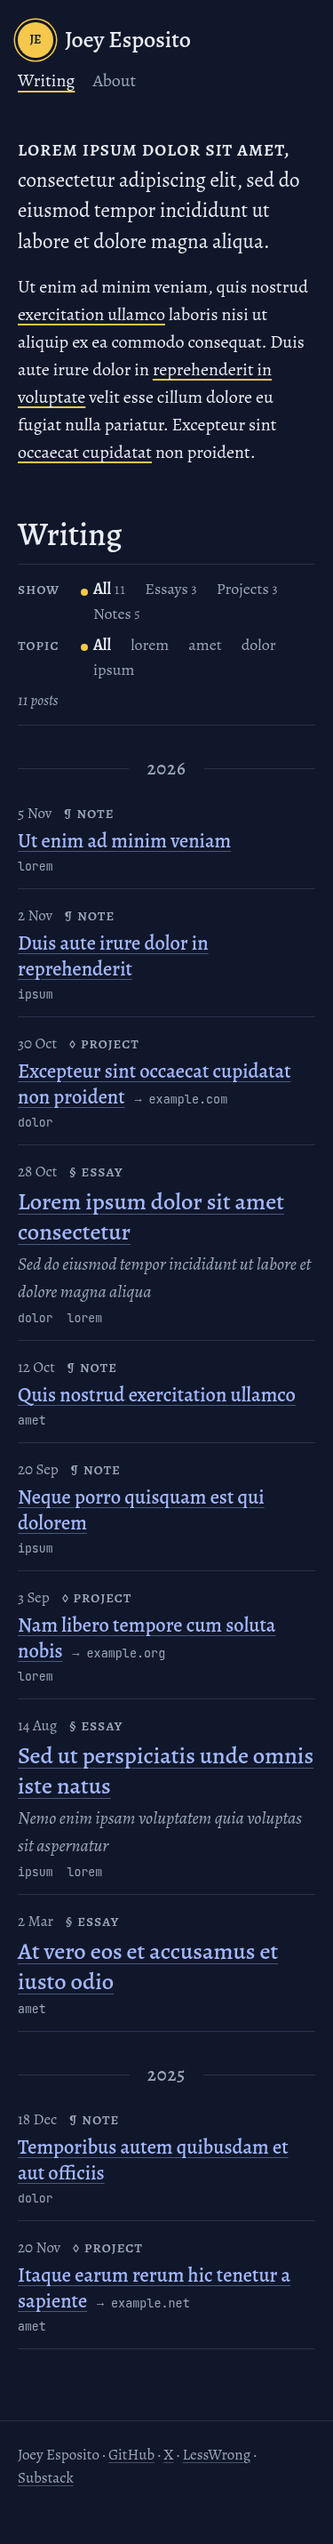
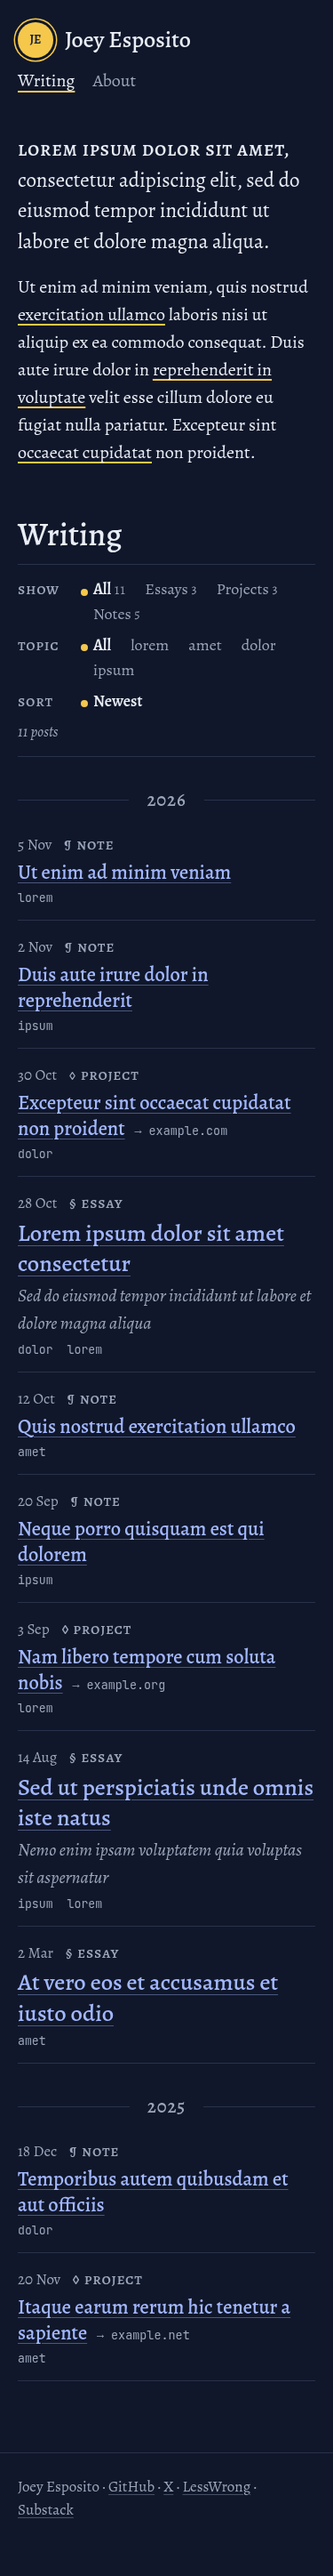
Always show the Sort control, with Newest until view counts exist

diff --git a/src/config.ts b/src/config.ts
@@ -28,6 +28,6 @@ export const SUBSTACK_SIGNUP = true;
 /**
  * The view counter's public read endpoint: a JSON object mapping each page path
  * ("/posts/<slug>/") to its view count. When set, the list offers "Most popular", which
- * fetches it in the reader's browser; null hides the Sort control.
+ * fetches it in the reader's browser; while null, Sort offers only "Newest".
  */
 export const VIEWS_URL: string | null = null;

diff --git a/DESIGN.md b/DESIGN.md
@@ -77,7 +77,7 @@ Meta 0.85–0.92rem. Inline code 0.8em; code blocks 0.72rem (14.4px).
 |---|---|---|
 | Base layout | `src/layouts/Base.astro` | Head (title, description, canonical, Open Graph and Twitter card tags, feed discovery links, `rel="me"` profile links, a `head` slot), header, footer with profile links |
 | Intro | `src/components/Intro.astro` | Prose paragraph in Joey's voice. The first words are set in small capitals (`.lede strong`). Links are underlined in sunflower; topic links open the list pre-filtered (`/?tag=…#writing`). No drop cap. |
-| PostFilters | `src/components/PostFilters.astro` | Radio groups Show (All/Essays/Projects/Notes with counts), Topic (tags by frequency), Sort (Newest/Most popular), plus a live count. Hidden until its script runs. Counts follow the chosen topic; options with zero matches fade. State is mirrored in the query string, so filtered views are linkable. Sort appears only when `VIEWS_URL` is set; "Most popular" fetches the view counts once, and if they fail to load the list falls back to newest and says so. |
+| PostFilters | `src/components/PostFilters.astro` | Radio groups Show (All/Essays/Projects/Notes with counts), Topic (tags by frequency), Sort (Newest/Most popular), plus a live count. Hidden until its script runs. Counts follow the chosen topic; options with zero matches fade. State is mirrored in the query string, so filtered views are linkable. Sort always shows "Newest"; "Most popular" appears once `VIEWS_URL` is set, and fetches the view counts once, and if they fail to load the list falls back to newest and says so. |
 | PostList | `src/components/PostList.astro` | Year dividers (centred year between hairlines) and ruled entries: date column (date, type mark) and title column (title link, a project's "→ host" repo link in mono, essay subtitle in italic, topic links in mono). Sorted by views, the dividers disappear and each date shows its year. |
 | Article | `src/components/Article.astro` | Post header (title, subtitle, meta line, epistemic status), contents, body, end mark, discussion links, citation, signup. |
 | Contents | `src/components/Contents.astro` | Essays with two or more headings. Box above the text on narrow screens; sticky right rail on wide ones. |

diff --git a/README.md b/README.md
@@ -51,8 +51,8 @@ between `$…$` or `$$…$$`; KaTeX's stylesheet loads only on posts that use it
 - `NAV`: the pages in the site menu.
 - `VIEWS_URL`: the view counter's public read endpoint, a JSON object mapping each page
   path (`/posts/<slug>/`) to its view count. When set, the home list offers "Most popular",
-  which fetches it in the reader's browser (no credentials); while `null`, the Sort control
-  is hidden and the list is newest first.
+  which fetches it in the reader's browser (no credentials); while `null`, Sort offers only
+  "Newest".
 
 ## Feeds and other generated files
 
